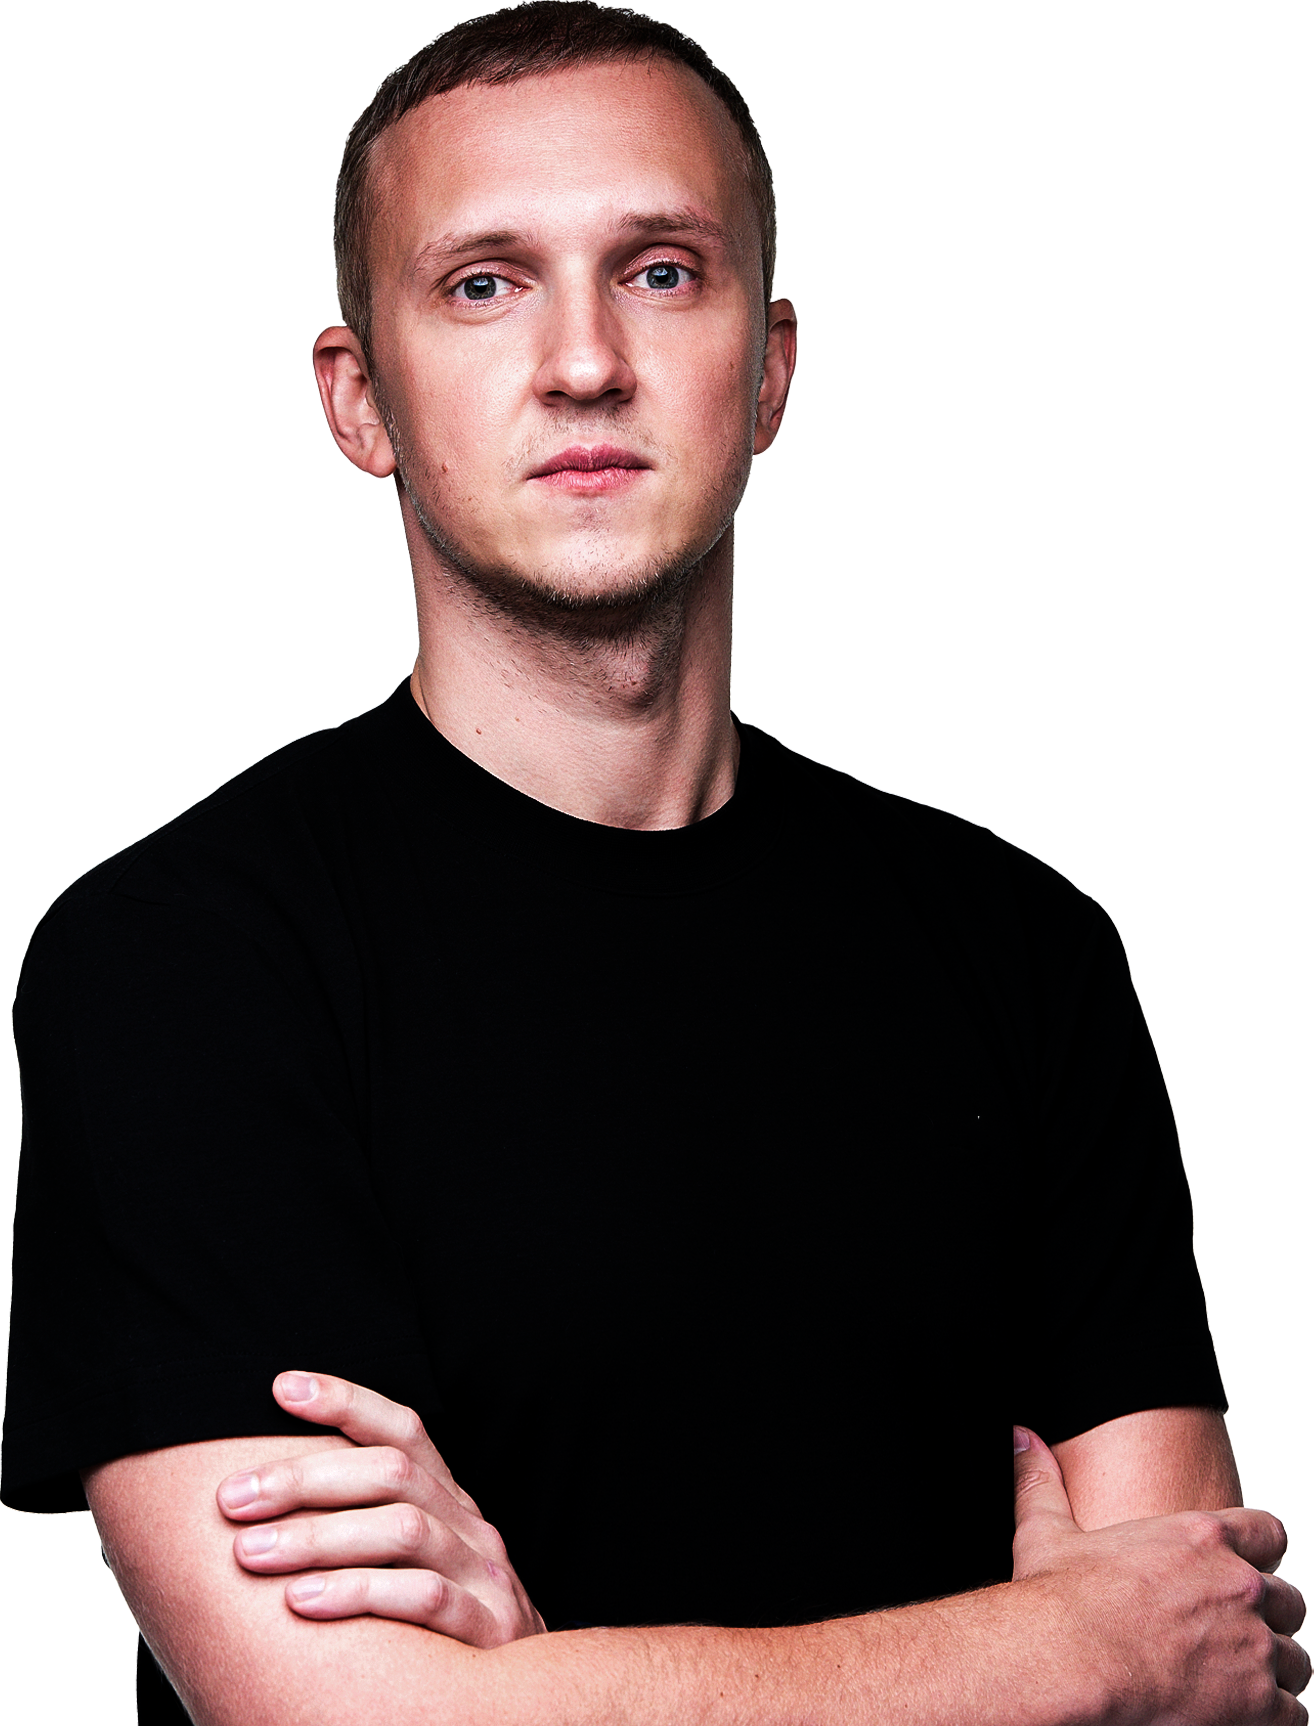
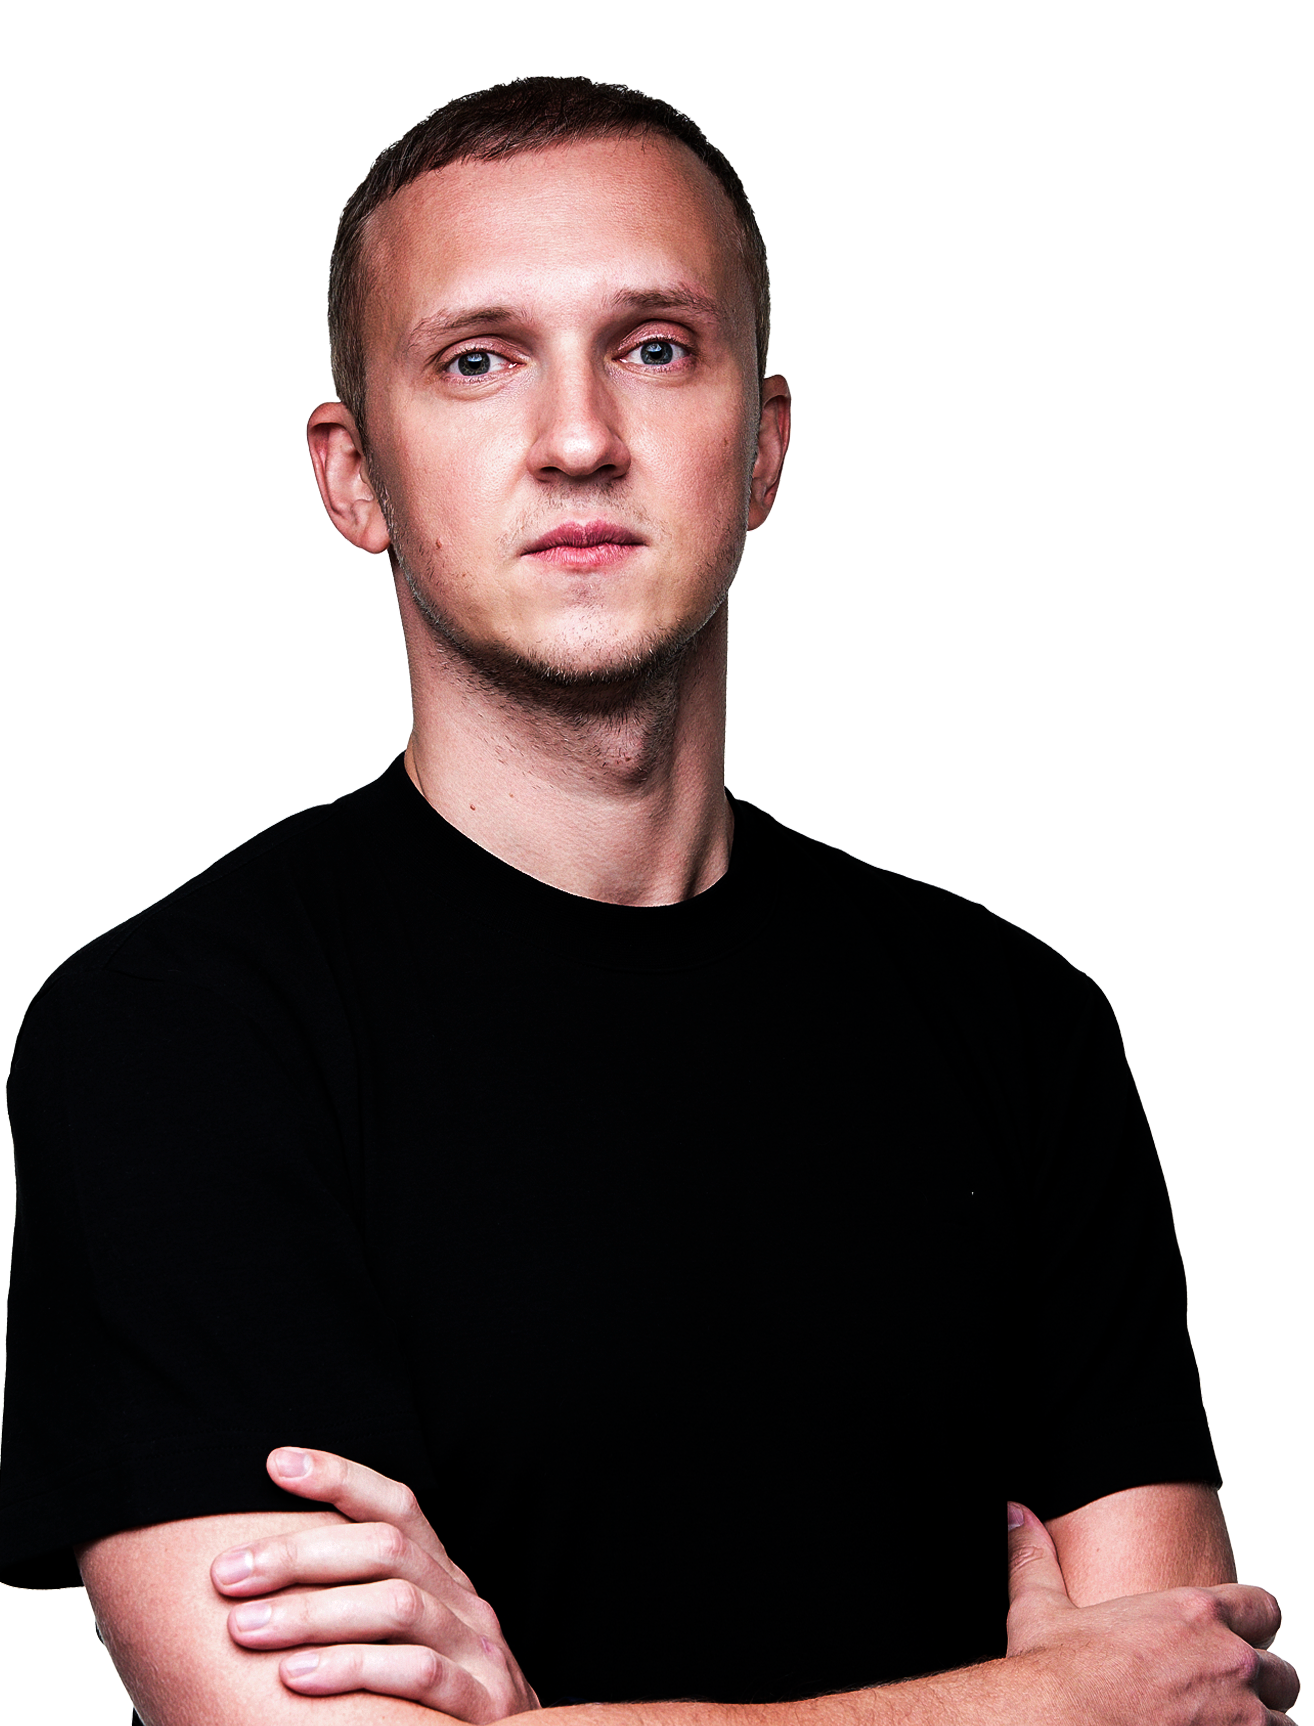
v5-1

Changed region(s): [[0.0, 0.0, 1.0, 1.0]]

diff --git a/app/verstka-dsk-school/page.tsx b/app/verstka-dsk-school/page.tsx
@@ -479,7 +479,7 @@ lg:gap-8 gap-6 min-h-screen bg-top bg-no-repeat"
                   <div className="uppercase text-2xl">20 000</div>
                   <div className="text-sm my-1">Спикеры ... </div>
                   <div className="text-xs underline">Подробнее</div>
-                  <div className="mt-2 bg-red-100 text-center rounded-lg py-2 w-48   ml-auto">Записаться</div>
+                  <div className="mt-2 bg-red-100 text-center rounded-lg py-2 w-48 ml-auto">Записаться</div>
                 </div>
               </div>
             </div>
@@ -489,34 +489,75 @@ lg:gap-8 gap-6 min-h-screen bg-top bg-no-repeat"
         </div>
 
 
-
-
         {/* lectors */}
-        <div className="flex flex-col bg-gray-50 gap-10 px-8 py-8 rounded-4xl">
-          <h2 className="text-2xl text-center lg:text-left mx-auto text-[#0039AE] lg:text-5xl lg:w-full font-semibold leading-6">Мы работаем с лучшими лекторами</h2>
-          <div className="gap-4 grid grid-cols-3 lg:grid-cols-6">
-            {/* single */}
-            <div className="flex flex-col gap-1 flex-1">
-              <div className="bg-red-100 my-auto mx-auto rounded-full border-2 border-blue-800 h-26 w-26 text-center">123</div>
-              <div className="text-center text-sm uppercase">name</div>
-            </div>
-            {/* single */}
-            <div className="flex flex-col gap-1 flex-1">
-              <div className="bg-red-100 my-auto mx-auto rounded-full border-2 border-blue-800 h-26 w-26 text-center">123</div>
-              <div className="text-center text-sm uppercase">name</div>
-            </div>
-            {/* single */}
-            <div className="flex flex-col gap-1 flex-1">
-              <div className="bg-red-100 my-auto mx-auto rounded-full border-2 border-blue-800 h-26 w-26 text-center">123</div>
-              <div className="text-center text-sm uppercase">name</div>
-            </div>
-            {/* single */}
-            <div className="flex flex-col gap-1 flex-1">
-              <div className="bg-red-100 my-auto mx-auto rounded-full border-2 border-blue-800 h-26 w-26 text-center">123</div>
-              <div className="text-center text-sm uppercase">name</div>
-            </div>
-  
+        <div className="flex flex-col bg-gray-50 gap-8 px-8 py-8 rounded-4xl">
+          <div className="flex flex-row">
+            <h2 className="text-2xl text-center lg:text-left mx-auto text-[#0039AE] xl:text-5xl lg:w-full font-semibold leading-6 mt-2">Мы работаем с лучшими лекторами</h2>
+            <div className="hidden lg:flex text-sm text-center rounded-lg py-3 justify-center w-64 lg:uppercase bg-gradient-to-r from-[#013AAF] to-[#0056C5] text-white font-bold">Показать всех</div>
           </div>
+          <div className="gap-4 grid grid-cols-3 lg:grid-cols-6 font-bold">
+            {/* single */}
+            <div className="flex flex-col gap-1 flex-1">
+              <div className="my-auto mx-auto rounded-full border-2 border-blue-800 h-26 w-26 text-center bg-cover" style={{ backgroundImage: "url(photo1.png)"}}></div>
+              <div className="text-center text-[#777777] w-20 mx-auto text-sm uppercase leading-4 ">Иван Рузин</div>
+            </div>
+            {/* single */}
+            <div className="flex flex-col gap-1 flex-1">
+              <div className="my-auto mx-auto rounded-full border-2 border-blue-800 h-26 w-26 text-center bg-cover" style={{ backgroundImage: "url(photo2.png)"}}></div>
+              <div className="text-center w-20 mx-auto text-sm leading-4 uppercase text-[#777777]">Владимир соколик</div>
+            </div>
+            {/* single */}
+            <div className="flex flex-col gap-1 flex-1">
+              <div className="my-auto mx-auto rounded-full border-2 border-blue-800 h-26 w-26 text-center bg-cover" style={{ backgroundImage: "url(photo1.png)"}}></div>
+              <div className="text-center text-[#777777] w-20 mx-auto text-sm uppercase leading-4 ">Иван Рузин</div>
+            </div>
+            {/* single */}
+            <div className="flex flex-col gap-1 flex-1">
+              <div className="my-auto mx-auto rounded-full border-2 border-blue-800 h-26 w-26 text-center bg-cover" style={{ backgroundImage: "url(photo2.png)"}}></div>
+              <div className="text-center w-20 mx-auto text-sm leading-4 uppercase text-[#777777]">Владимир соколик</div>
+            </div>
+            {/* single */}
+            <div className="flex flex-col gap-1 flex-1">
+              <div className="my-auto mx-auto rounded-full border-2 border-blue-800 h-26 w-26 text-center bg-cover" style={{ backgroundImage: "url(photo1.png)"}}></div>
+              <div className="text-center text-[#777777] w-20 mx-auto text-sm uppercase leading-4 ">Иван Рузин</div>
+            </div>
+            {/* single */}
+            <div className="flex flex-col gap-1 flex-1">
+              <div className="my-auto mx-auto rounded-full border-2 border-blue-800 h-26 w-26 text-center bg-cover" style={{ backgroundImage: "url(photo2.png)"}}></div>
+              <div className="text-center w-20 mx-auto text-sm leading-4 uppercase text-[#777777]">Владимир соколик</div>
+            </div>
+            {/* single */}
+            <div className="flex flex-col gap-1 flex-1">
+              <div className="my-auto mx-auto rounded-full border-2 border-blue-800 h-26 w-26 text-center bg-cover" style={{ backgroundImage: "url(photo1.png)"}}></div>
+              <div className="text-center text-[#777777] w-20 mx-auto text-sm uppercase leading-4 ">Иван Рузин</div>
+            </div>
+            {/* single */}
+            <div className="flex flex-col gap-1 flex-1">
+              <div className="my-auto mx-auto rounded-full border-2 border-blue-800 h-26 w-26 text-center bg-cover" style={{ backgroundImage: "url(photo2.png)"}}></div>
+              <div className="text-center w-20 mx-auto text-sm leading-4 uppercase text-[#777777]">Владимир соколик</div>
+            </div>
+            {/* single */}
+            <div className="flex flex-col gap-1 flex-1">
+              <div className="my-auto mx-auto rounded-full border-2 border-blue-800 h-26 w-26 text-center bg-cover" style={{ backgroundImage: "url(photo1.png)"}}></div>
+              <div className="text-center text-[#777777] w-20 mx-auto text-sm uppercase leading-4 ">Иван Рузин</div>
+            </div>
+            {/* single */}
+            <div className="flex flex-col gap-1 flex-1">
+              <div className="my-auto mx-auto rounded-full border-2 border-blue-800 h-26 w-26 text-center bg-cover" style={{ backgroundImage: "url(photo2.png)"}}></div>
+              <div className="text-center w-20 mx-auto text-sm leading-4 uppercase text-[#777777]">Владимир соколик</div>
+            </div>
+            {/* single */}
+            <div className="flex flex-col gap-1 flex-1">
+              <div className="my-auto mx-auto rounded-full border-2 border-blue-800 h-26 w-26 text-center bg-cover" style={{ backgroundImage: "url(photo1.png)"}}></div>
+              <div className="text-center text-[#777777] w-20 mx-auto text-sm uppercase leading-4 ">Иван Рузин</div>
+            </div>
+            {/* single */}
+            <div className="flex flex-col gap-1 flex-1">
+              <div className="my-auto mx-auto rounded-full border-2 border-blue-800 h-26 w-26 text-center bg-cover" style={{ backgroundImage: "url(photo2.png)"}}></div>
+              <div className="text-center w-20 mx-auto text-sm leading-4 uppercase text-[#777777]">Владимир соколик</div>
+            </div>
+          </div>
+          <div className="flex lg:hidden mx-auto align-center text-sm rounded-lg py-3 px-12 lg:uppercase bg-gradient-to-r from-[#013AAF] to-[#0056C5] text-white font-bold">Показать всех</div>
         </div>
 
 